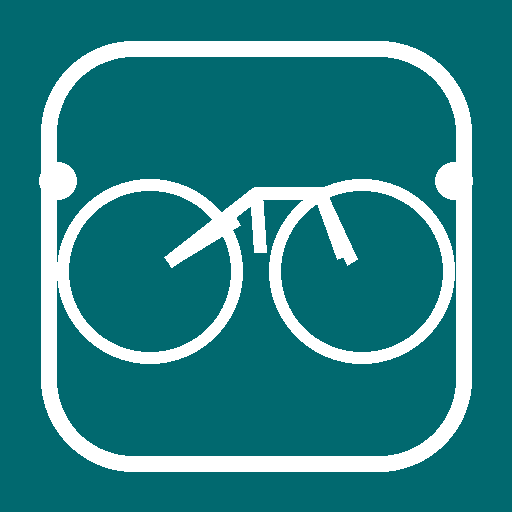
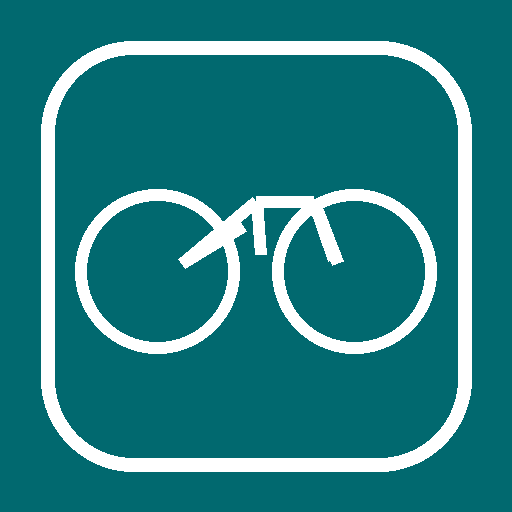
Add files via upload

diff --git a/index.html b/index.html
@@ -4,229 +4,147 @@
   <meta charset="UTF-8" />
   <meta name="viewport" content="width=device-width, initial-scale=1.0" />
   <meta name="theme-color" content="#01696f" />
-  <title>Radfreunde Ausfahrten V5</title>
-  <link href="https://api.fontshare.com/v2/css?f[]=satoshi@400,500,700&f[]=zodiak@400,700&display=swap" rel="stylesheet">
+  <meta name="apple-mobile-web-app-capable" content="yes" />
+  <meta name="apple-mobile-web-app-status-bar-style" content="default" />
+  <title>Radfreunde</title>
+  <link rel="manifest" href="manifest.webmanifest" />
+  <link rel="apple-touch-icon" href="icon-192.png" />
   <style>
-    :root, [data-theme="light"] {
-      --text-xs: clamp(0.75rem, 0.7rem + 0.25vw, 0.875rem);
-      --text-sm: clamp(0.875rem, 0.8rem + 0.35vw, 1rem);
-      --text-base: clamp(1rem, 0.95rem + 0.25vw, 1.125rem);
-      --text-lg: clamp(1.125rem, 1rem + 0.75vw, 1.5rem);
-      --text-xl: clamp(1.5rem, 1.2rem + 1.25vw, 2.25rem);
-      --space-1:.25rem; --space-2:.5rem; --space-3:.75rem; --space-4:1rem; --space-5:1.25rem; --space-6:1.5rem; --space-8:2rem; --space-10:2.5rem; --space-12:3rem;
-      --color-bg:#f7f6f2; --color-surface:#f9f8f5; --color-surface-2:#fbfbf9; --color-text:#28251d; --color-text-muted:#7a7974; --color-primary:#01696f; --color-primary-hover:#0c4e54; --color-primary-highlight:#cedcd8; --color-danger:#a13544;
-      --radius-md:.5rem; --radius-lg:.75rem; --radius-xl:1rem; --radius-full:9999px;
-      --shadow-sm:0 1px 2px rgb(0 0 0 / 0.06);
-      --font-body:'Satoshi', system-ui, sans-serif; --font-display:'Zodiak', Georgia, serif;
-    }
-    [data-theme="dark"] {
-      --color-bg:#171614; --color-surface:#1c1b19; --color-surface-2:#201f1d; --color-text:#cdccca; --color-text-muted:#979693; --color-primary:#4f98a3; --color-primary-hover:#227f8b; --color-primary-highlight:#313b3b; --color-danger:#dd6974;
-      --shadow-sm:0 1px 2px rgb(0 0 0 / 0.2);
-    }
-    *,*:before,*:after{box-sizing:border-box} html{-webkit-text-size-adjust:100%;text-size-adjust:100%} body{margin:0;min-height:100vh;background:var(--color-bg);color:var(--color-text);font-family:var(--font-body);font-size:var(--text-base);line-height:1.55}
-    button,input,select{font:inherit;color:inherit} button{cursor:pointer;border:none} input,select{width:100%;min-height:44px;background:var(--color-surface-2);color:var(--color-text);border:1px solid color-mix(in oklab,var(--color-text) 12%,transparent);border-radius:var(--radius-lg);padding:.8rem .95rem}
-    .app{max-width:1360px;margin:0 auto;padding:var(--space-4)} .topbar{display:flex;justify-content:space-between;align-items:center;gap:var(--space-4);padding:var(--space-4) 0 var(--space-6)} .brand{display:flex;align-items:center;gap:var(--space-3)} .logo{width:48px;height:48px;color:var(--color-primary)} .brand h1{margin:0;font-family:var(--font-display);font-size:var(--text-xl);line-height:1}.brand p{margin:.25rem 0 0;color:var(--color-text-muted);font-size:var(--text-sm)} .theme-toggle{width:44px;height:44px;border-radius:var(--radius-full);background:var(--color-surface);box-shadow:var(--shadow-sm);border:1px solid color-mix(in oklab,var(--color-text) 10%,transparent)}
-    .layout{display:grid;grid-template-columns:1.08fr .92fr;gap:var(--space-5)} .panel{background:var(--color-surface);border-radius:var(--radius-xl);border:1px solid color-mix(in oklab,var(--color-text) 12%,transparent);box-shadow:var(--shadow-sm)} .hero,.sidebar,.section{padding:var(--space-6)} .eyebrow{display:inline-flex;align-items:center;gap:var(--space-2);padding:.35rem .7rem;border-radius:var(--radius-full);background:var(--color-primary-highlight);color:var(--color-primary);font-size:var(--text-xs);text-transform:uppercase;letter-spacing:.08em;font-weight:700} .hero h2{margin:var(--space-4) 0 var(--space-3);font-size:var(--text-xl);font-family:var(--font-display);line-height:1.08}.helper,.hero p{margin:0;color:var(--color-text-muted);font-size:var(--text-sm)}
-    .controls{display:grid;gap:var(--space-4);margin-top:var(--space-6)} .field-row{display:grid;grid-template-columns:1.1fr .9fr auto;gap:var(--space-3);align-items:end} .field{display:grid;gap:var(--space-2)} .field label{font-size:var(--text-sm);font-weight:700} .btn{min-height:44px;padding:.8rem 1rem;border-radius:var(--radius-lg);font-size:var(--text-sm);font-weight:700} .btn-primary{background:var(--color-primary);color:#fff}.btn-primary:hover{background:var(--color-primary-hover)} .btn-secondary{background:transparent;border:1px solid color-mix(in oklab,var(--color-text) 12%,transparent)} .btn-danger{background:transparent;border:1px solid color-mix(in oklab,var(--color-danger) 40%,transparent);color:var(--color-danger)}
-    .stats-grid{display:grid;grid-template-columns:repeat(5,minmax(0,1fr));gap:var(--space-4);margin-top:var(--space-6)} .stat{padding:var(--space-4);border-radius:var(--radius-lg);background:var(--color-surface-2)} .stat strong{display:block;font-family:var(--font-display);font-size:var(--text-xl);line-height:1;margin-bottom:var(--space-2)} .stat span{color:var(--color-text-muted);font-size:var(--text-sm)}
-    .sidebar{display:grid;gap:var(--space-4)} .chip-list,.tools{display:flex;flex-wrap:wrap;gap:var(--space-2)} .chip{display:inline-flex;align-items:center;padding:.38rem .7rem;border-radius:var(--radius-full);font-size:var(--text-xs);font-weight:700;background:var(--color-primary-highlight);color:var(--color-primary)} .status{padding:.55rem .8rem;border-radius:var(--radius-full);background:var(--color-primary-highlight);color:var(--color-primary);font-size:var(--text-xs);font-weight:700}
-    .list-box{max-height:280px;overflow:auto;display:grid;gap:var(--space-2)} .member-item{display:flex;justify-content:space-between;align-items:center;gap:var(--space-3);padding:.8rem .9rem;border-radius:var(--radius-lg);background:var(--color-surface-2)}
-    .section{margin-top:var(--space-5)} .section-head{display:flex;justify-content:space-between;align-items:center;gap:var(--space-3);margin-bottom:var(--space-4)} .rank-table{width:100%;border-collapse:collapse}.rank-table th,.rank-table td{padding:.8rem .5rem;border-bottom:1px solid color-mix(in oklab,var(--color-text) 10%,transparent);text-align:left}.rank-table th{font-size:var(--text-xs);text-transform:uppercase;letter-spacing:.08em;color:var(--color-text-muted)} .bar-wrap{width:100%;min-width:120px;height:10px;border-radius:var(--radius-full);background:color-mix(in oklab,var(--color-text) 8%,transparent);overflow:hidden}.bar{height:100%;background:linear-gradient(90deg,var(--color-primary),color-mix(in oklab,var(--color-primary) 70%,white));border-radius:var(--radius-full)}
-    .rides-list{display:grid;gap:var(--space-3)} .ride-card{padding:var(--space-4);border-radius:var(--radius-xl);background:var(--color-surface-2);border:1px solid color-mix(in oklab,var(--color-text) 10%,transparent)} .ride-top{display:flex;justify-content:space-between;gap:var(--space-3);align-items:flex-start;margin-bottom:var(--space-3)} .participants{display:flex;flex-wrap:wrap;gap:var(--space-2)} .pill{display:inline-flex;align-items:center;padding:.35rem .6rem;border-radius:var(--radius-full);background:var(--color-surface);font-size:var(--text-xs)} .empty{padding:var(--space-8);text-align:center;color:var(--color-text-muted);border:1px dashed color-mix(in oklab,var(--color-text) 16%,transparent);border-radius:var(--radius-xl);background:var(--color-surface)} .grid-2{display:grid;grid-template-columns:1fr 1fr;gap:var(--space-4)} .hint{font-size:var(--text-xs);color:var(--color-text-muted)}
-    @media (max-width:1100px){.layout,.grid-2{grid-template-columns:1fr}.stats-grid{grid-template-columns:repeat(2,minmax(0,1fr))}} @media (max-width:760px){.field-row,.section-head,.ride-top,.topbar{grid-template-columns:1fr;display:grid}.stats-grid{grid-template-columns:1fr}.app{padding:var(--space-3)}.hero,.sidebar,.section{padding:var(--space-4)}}
+    :root,[data-theme="light"]{--bg:#f7f6f2;--surface:#fff;--surface2:#fbfbf9;--text:#26231b;--muted:#7d7b75;--primary:#01696f;--primary2:#d9e9e7;--danger:#a13544;--border:#dad7d0;--shadow:0 8px 24px rgba(0,0,0,.08);--r:18px;--r2:12px;font-family:system-ui,sans-serif}
+    [data-theme="dark"]{--bg:#171614;--surface:#1f1e1b;--surface2:#252420;--text:#e1dfdc;--muted:#a3a19b;--primary:#4f98a3;--primary2:#2d383a;--danger:#dd6974;--border:#3a3936;--shadow:0 8px 24px rgba(0,0,0,.28)}
+    *{box-sizing:border-box} body{margin:0;background:var(--bg);color:var(--text)} button,input{font:inherit} button{cursor:pointer;border:0}
+    .app{max-width:1100px;margin:0 auto;padding:16px} .top{display:flex;justify-content:space-between;align-items:center;gap:12px;margin-bottom:16px}
+    .brand h1{margin:0;font-size:1.8rem}.brand p{margin:4px 0 0;color:var(--muted)} .theme{width:44px;height:44px;border-radius:999px;background:var(--surface);color:var(--text);box-shadow:var(--shadow);border:1px solid var(--border)}
+    .card{background:var(--surface);border:1px solid var(--border);border-radius:var(--r);box-shadow:var(--shadow);padding:16px;margin-bottom:14px}
+    .row{display:grid;grid-template-columns:1.2fr 1fr auto;gap:12px;align-items:end} .field{display:grid;gap:8px} label{font-weight:700;font-size:.95rem}
+    input{width:100%;min-height:46px;border-radius:var(--r2);border:1px solid var(--border);background:var(--surface2);color:var(--text);padding:0 14px} input:focus{outline:2px solid var(--primary);outline-offset:2px}
+    .btn{min-height:46px;padding:0 16px;border-radius:var(--r2);font-weight:700}.primary{background:var(--primary);color:#fff}.secondary{background:transparent;color:var(--text);border:1px solid var(--border)} .danger{background:transparent;color:var(--danger);border:1px solid color-mix(in oklab,var(--danger) 35%, var(--border))}
+    .section-title{display:flex;justify-content:space-between;align-items:center;gap:12px;margin:0 0 10px} .muted{color:var(--muted);font-size:.95rem}
+    .chips{display:flex;flex-wrap:wrap;gap:10px}.chip{padding:12px 16px;border-radius:999px;background:var(--surface2);border:2px solid transparent;font-weight:700}.chip.active{background:var(--primary2);border-color:var(--primary);color:var(--primary)}
+    .stats{display:grid;grid-template-columns:repeat(4,1fr);gap:12px}.stat{padding:14px;border-radius:14px;background:var(--surface2)} .stat strong{display:block;font-size:1.8rem;line-height:1}.stat span{color:var(--muted);font-size:.92rem}
+    .list{display:grid;gap:10px}.ride{padding:14px;border-radius:16px;background:var(--surface2);border:1px solid var(--border)} .ride-top{display:flex;justify-content:space-between;gap:10px;align-items:flex-start}.ride-top h3{margin:0;font-size:1.05rem}.ride-top small{color:var(--muted)} .pills{display:flex;flex-wrap:wrap;gap:8px;margin-top:10px}.pill{padding:8px 10px;border-radius:999px;background:var(--surface);border:1px solid var(--border);font-size:.9rem}
+    .member-row{display:grid;grid-template-columns:1fr auto;gap:10px;align-items:end}.tiny{font-size:.9rem;color:var(--muted)} .empty{padding:22px;border-radius:16px;border:1px dashed var(--border);text-align:center;color:var(--muted)}
+    @media (max-width:800px){.row,.stats,.member-row{grid-template-columns:1fr}.top{align-items:flex-start;flex-direction:column}}
   </style>
-  <link rel="manifest" href="manifest.webmanifest">
-  <link rel="apple-touch-icon" href="icon-192.png">
-  <meta name="apple-mobile-web-app-capable" content="yes">
-  <meta name="apple-mobile-web-app-status-bar-style" content="default">
-
-<style>
-.readonly-mode { pointer-events: none; }
-.admin-mode .member-item, .admin-mode .chip {
-  border: 1px solid color-mix(in oklab, var(--color-text) 14%, transparent);
-  box-shadow: 0 0 0 2px transparent;
-  border-radius: var(--radius-lg);
-  outline: 2px solid transparent;
-  transition: outline 0.2s, border-color 0.2s, background 0.2s;
-}
-
-.admin-mode .member-item:hover,
-.admin-mode .chip:hover {
-  outline: 2px solid var(--color-primary);
-  border-color: var(--color-primary);
-  background: color-mix(in oklab, var(--color-primary-highlight) 80%, transparent);
-}
-
-.admin-mode .member-item.active,
-.admin-mode .chip.active {
-  outline: 2px solid var(--color-primary);
-  border-color: var(--color-primary);
-  background: color-mix(in oklab, var(--color-primary-highlight) 80%, transparent);
-  box-shadow: 0 2px 6px rgba(0,0,0,0.1);
-}
-</style>
 </head>
 <body>
   <div class="app">
-    <header class="topbar">
-      <div class="brand">
-        <svg class="logo" viewBox="0 0 64 64" fill="none" aria-label="Radfreunde Logo"><circle cx="20" cy="44" r="8" stroke="currentColor" stroke-width="4"></circle><circle cx="46" cy="44" r="8" stroke="currentColor" stroke-width="4"></circle><path d="M20 44l8-16h10l8 16M28 28l-6-8M38 28l6-6" stroke="currentColor" stroke-width="4" stroke-linecap="round" stroke-linejoin="round"></path></svg>
-        <div><h1>Radfreunde V5</h1><p>Mit Suche und Medaillen</p></div>
-      </div>
-      <button class="theme-toggle" type="button" aria-label="Farbschema wechseln" data-theme-toggle>◐</button>
-    </header>
+    <div class="top">
+      <div class="brand"><h1>Radfreunde</h1><p>Datum wählen, Teilnehmer anklicken, Tour speichern</p></div>
+      <button class="theme" id="themeBtn" aria-label="Farbschema wechseln">◐</button>
+    </div>
 
-    <main>
-      <section class="layout">
-        <article class="panel hero">
-          <span class="eyebrow">Version 4</span>
-          <h2>Monate, Jahre und Suche direkt auswerten.</h2>
-          <p>Du kannst jetzt die Rangliste für alle Daten, für ein bestimmtes Jahr oder für einen bestimmten Monat anzeigen lassen.</p>
-          <div class="controls">
-            <div class="field-row">
-              <div class="field"><label for="memberName">Neuen Teilnehmer hinzufügen</label><input id="memberName" type="text" placeholder="Name eingeben" /></div>
-              <div class="field"><label for="quickPreset">Beispielnamen laden</label><select id="quickPreset"><option value="">Bitte wählen</option><option value="demo">30 Beispielnamen einfügen</option></select></div>
-              <button class="btn btn-primary" id="addMemberBtn" type="button">Teilnehmer speichern</button>
-            </div>
-            <div class="field-row">
-              
-              <div class="field"><label for="rideDate">Datum</label><input id="rideDate" type="date" /></div>
-              <button class="btn btn-secondary" id="todayBtn" type="button">Heute setzen</button>
-            </div>
-          </div>
-          <div class="stats-grid">
-            <div class="stat"><strong id="totalMembers">0</strong><span>Teilnehmer</span></div>
-            <div class="stat"><strong id="totalRides">0</strong><span>Ausfahrten gesamt</span></div>
-            <div class="stat"><strong id="topMember">-</strong><span>Spitzenreiter im Filter</span></div>
-            <div class="stat"><strong id="avgParticipants">0</strong><span>Ø Teilnehmer im Filter</span></div>
-            <div class="stat"><strong id="lastRideDate">-</strong><span>Letzte Ausfahrt</span></div>
-          </div>
-        </article>
-
-        <aside class="panel sidebar">
-          <div><h3>Teilnehmer wählen</h3><p class="helper">Ein Klick markiert den Namen für die aktuelle Ausfahrt.</p></div>
-          <div class="chip-list" id="memberChips"></div>
-          <div class="tools"><button class="btn btn-primary" id="saveRideBtn" type="button">Ausfahrt speichern</button><button class="btn btn-secondary" id="selectAllBtn" type="button">Alle markieren</button><button class="btn btn-secondary" id="clearSelectionBtn" type="button">Auswahl löschen</button></div>
-          <div class="tools"><button class="btn btn-secondary" id="exportJsonBtn" type="button">JSON sichern</button><label class="btn btn-secondary" style="position:relative;overflow:hidden;display:inline-flex;align-items:center;">JSON einlesen<input id="importJsonFile" type="file" accept=".json,application/json" style="position:absolute;inset:0;opacity:0;cursor:pointer"></label></div>
-          <div class="status" id="storageStatus">Speicherstatus wird geladen …</div>
-          <div><h3>Teilnehmerliste</h3><div class="list-box" id="memberList"></div></div>
-        </aside>
-      </section>
-
-      <section class="panel section">
-        <div class="section-head">
-          <div><h3>Rangliste</h3><p class="helper">Gesamt, Jahr oder Monat auswählbar.</p></div>
-          <div class="tools">
-            <select id="periodFilter"><option value="all">Gesamt</option><option value="year">Jahr</option><option value="month">Monat</option></select>
-            <select id="yearFilter"></select>
-            <select id="monthFilter"></select>
-            <button class="btn btn-secondary" id="top10Btn" type="button">Nur Top 10</button>
-            <button class="btn btn-danger" id="resetAllBtn" type="button">Alles zurücksetzen</button>
-          </div>
+    <div class="card">
+      <div class="row">
+        <div class="field">
+          <label for="rideDate">Datum der Ausfahrt</label>
+          <input id="rideDate" type="date" />
         </div>
-        <div id="rankingWrap"></div>
-      </section>
+        <div>
+          <div class="section-title"><strong>Teilnehmer auswählen</strong><span class="muted" id="selCount">0 ausgewählt</span></div>
+          <div class="chips" id="memberChips"></div>
+        </div>
+        <button class="btn primary" id="saveRideBtn">Tour abschließen</button>
+      </div>
+      <p class="tiny">Die ausgewählten Teilnehmer werden unten gespeichert. Falsche Einträge kannst du später noch bearbeiten.</p>
+    </div>
 
-      <section class="panel section">
-        <div class="section-head"><div><h3>Zeitraum-Statistik</h3><p class="helper">Jahre und Monate im Überblick.</p></div></div>
-        <div id="periodStatsWrap"></div>
-      </section>
+    <div class="stats">
+      <div class="stat"><strong id="totalMembers">0</strong><span>Teilnehmer</span></div>
+      <div class="stat"><strong id="totalRides">0</strong><span>Touren</span></div>
+      <div class="stat"><strong id="topMember">-</strong><span>Spitzenreiter</span></div>
+      <div class="stat"><strong id="lastRide">-</strong><span>Letzte Tour</span></div>
+    </div>
 
-      <section class="panel section">
-        <div class="section-head"><div><h3>Ausfahrten</h3><p class="helper">Alle gespeicherten Runden mit Teilnehmern.</p></div></div>
-        <div id="ridesWrap"></div>
-      </section>
-    </main>
+    <div class="card">
+      <div class="section-title"><strong>Gespeicherte Touren</strong><span class="muted">Bearbeiten ist jederzeit möglich</span></div>
+      <div class="list" id="ridesWrap"></div>
+    </div>
+
+    <div class="card">
+      <div class="section-title"><strong>Teilnehmer verwalten</strong><span class="muted">Ändert sich selten</span></div>
+      <div class="member-row">
+        <div class="field">
+          <label for="memberName">Teilnehmer hinzufügen</label>
+          <input id="memberName" type="text" placeholder="Name eingeben" />
+        </div>
+        <button class="btn secondary" id="addMemberBtn">Hinzufügen</button>
+      </div>
+      <div style="height:12px"></div>
+      <div class="member-row">
+        <div class="field">
+          <label for="deleteMember">Teilnehmer löschen</label>
+          <input id="deleteMember" type="text" placeholder="Name eingeben" />
+        </div>
+        <button class="btn danger" id="deleteMemberBtn">Löschen</button>
+      </div>
+    </div>
   </div>
 
   <script>
-    const DB_NAME = 'radfreunde-ausfahrten-db';
-    const STORE_NAME = 'appState';
-    const STATE_KEY = 'main';
-    const MONTH_NAMES = ['Januar','Februar','März','April','Mai','Juni','Juli','August','September','Oktober','November','Dezember'];
-    const presetNames = ['Andreas','Bernd','Claus','Dieter','Egon','Frank','Gerd','Harald','Helmut','Jürgen','Karl','Klaus','Manfred','Martin','Norbert','Peter','Ralf','Reiner','Stefan','Thomas','Uli','Volker','Walter','Werner','Wolfgang','Hans','Erich','Roland','Achim','Jochen'];
-    const state = { members: [], rides: [], selectedMembers: new Set(), top10Only: false, period: 'all', filterYear: '', filterMonth: '', search: '' };
+    const DB_NAME='radfreunde-db';
+    const STORE='state';
+    const KEY='main';
+    const state={members:[], rides:[], selected:new Set()};
     let db;
+    const $=id=>document.getElementById(id);
+    const themeBtn=$('themeBtn');
+    const rideDate=$('rideDate');
+    const memberChips=$('memberChips');
+    const selCount=$('selCount');
+    const ridesWrap=$('ridesWrap');
+    const totalMembers=$('totalMembers');
+    const totalRides=$('totalRides');
+    const topMember=$('topMember');
+    const lastRide=$('lastRide');
+    const memberName=$('memberName');
+    const deleteMember=$('deleteMember');
+    const addMemberBtn=$('addMemberBtn');
+    const deleteMemberBtn=$('deleteMemberBtn');
+    const saveRideBtn=$('saveRideBtn');
 
-    const $ = id => document.getElementById(id);
-    const memberName = $('memberName'), quickPreset = $('quickPreset'), addMemberBtn = $('addMemberBtn'), rideTitle = $('rideTitle'), rideDate = $('rideDate'), todayBtn = $('todayBtn');
-    const memberChips = $('memberChips'), memberList = $('memberList'), saveRideBtn = $('saveRideBtn'), selectAllBtn = $('selectAllBtn'), clearSelectionBtn = $('clearSelectionBtn');
-    const exportJsonBtn = $('exportJsonBtn'), importJsonFile = $('importJsonFile'), storageStatus = $('storageStatus');
-    const periodFilter = $('periodFilter'), yearFilter = $('yearFilter'), monthFilter = $('monthFilter'), top10Btn = $('top10Btn'), resetAllBtn = $('resetAllBtn'), searchMember = $('searchMember');
-    const rankingWrap = $('rankingWrap'), periodStatsWrap = $('periodStatsWrap'), ridesWrap = $('ridesWrap');
-    const totalMembers = $('totalMembers'), totalRides = $('totalRides'), topMember = $('topMember'), avgParticipants = $('avgParticipants'), lastRideDate = $('lastRideDate');
+    function esc(s){return String(s).replace(/[&<>\"']/g,m=>({'&':'&amp;','<':'&lt;','>':'&gt;','\"':'&quot;',"'":'&#39;'}[m]))}
+    function fmt(d){return d?new Date(d+'T12:00:00').toLocaleDateString('de-DE',{day:'2-digit',month:'2-digit',year:'numeric'}):'-'}
+    function loadTheme(){const t=localStorage.getItem('theme')||('matchMedia' in window && matchMedia('(prefers-color-scheme: dark)').matches?'dark':'light'); document.documentElement.setAttribute('data-theme',t)}
+    function saveTheme(t){localStorage.setItem('theme',t); document.documentElement.setAttribute('data-theme',t)}
+    themeBtn.onclick=()=>saveTheme(document.documentElement.getAttribute('data-theme')==='dark'?'light':'dark')
 
-    const root = document.documentElement; const themeToggle = document.querySelector('[data-theme-toggle]'); let theme = matchMedia('(prefers-color-scheme: dark)').matches ? 'dark':'light'; root.setAttribute('data-theme', theme); themeToggle.onclick=()=>{theme=theme==='dark'?'light':'dark';root.setAttribute('data-theme',theme)};
-    if ('serviceWorker' in navigator) { navigator.serviceWorker.register('sw.js'); }
-    const escapeHtml = text => text.replace(/[&<>"']/g,s=>({'&':'&amp;','<':'&lt;','>':'&gt;','"':'&quot;',"'":'&#39;'}[s]));
-    const formatDate = d => d ? new Date(d+'T12:00:00').toLocaleDateString('de-DE',{day:'2-digit',month:'2-digit',year:'numeric'}) : 'ohne Datum';
-    const rideParts = ride => ({ year:(ride.date||'').slice(0,4), month:(ride.date||'').slice(0,7) });
+    function openDb(){return new Promise((res,rej)=>{const r=indexedDB.open(DB_NAME,1); r.onupgradeneeded=e=>e.target.result.createObjectStore(STORE); r.onsuccess=()=>{db=r.result;res()}; r.onerror=()=>rej(r.error)})}
+    function persist(){const tx=db.transaction(STORE,'readwrite'); tx.objectStore(STORE).put({members:state.members,rides:state.rides},KEY)}
+    function hydrate(){return new Promise((res,rej)=>{const tx=db.transaction(STORE,'readonly'); const r=tx.objectStore(STORE).get(KEY); r.onsuccess=()=>{const d=r.result||{}; state.members=d.members||[]; state.rides=d.rides||[]; res()}; r.onerror=()=>rej(r.error)})}
 
-    function openDb(){return new Promise((resolve,reject)=>{const req=indexedDB.open(DB_NAME,2); req.onupgradeneeded=e=>{const database=e.target.result; if(!database.objectStoreNames.contains(STORE_NAME)) database.createObjectStore(STORE_NAME)}; req.onsuccess=()=>{db=req.result; resolve()}; req.onerror=()=>reject(req.error)})}
-    function saveDb(){return new Promise((resolve,reject)=>{const tx=db.transaction(STORE_NAME,'readwrite'); tx.objectStore(STORE_NAME).put({members:state.members, rides:state.rides, top10Only:state.top10Only, period:state.period, filterYear:state.filterYear, filterMonth:state.filterMonth, search:state.search}, STATE_KEY); tx.oncomplete=()=>{storageStatus.textContent='Dauerhaft im Browser gespeichert'; resolve()}; tx.onerror=()=>reject(tx.error)})}
-    function loadDb(){return new Promise((resolve,reject)=>{const tx=db.transaction(STORE_NAME,'readonly'); const req=tx.objectStore(STORE_NAME).get(STATE_KEY); req.onsuccess=()=>{const data=req.result; if(data){state.members=data.members||[]; state.rides=data.rides||[]; state.top10Only=!!data.top10Only; state.period=data.period||'all'; state.filterYear=data.filterYear||''; state.filterMonth=data.filterMonth||''; state.search=data.search||'';} storageStatus.textContent='Dauerhaft im Browser gespeichert'; resolve()}; req.onerror=()=>reject(req.error)})}
-    function downloadJson(){const blob=new Blob([JSON.stringify({members:state.members,rides:state.rides,exportedAt:new Date().toISOString()},null,2)],{type:'application/json'}); const url=URL.createObjectURL(blob); const a=document.createElement('a'); a.href=url; a.download='radfreunde-sicherung.json'; a.click(); URL.revokeObjectURL(url)}
+    function addMember(name){const n=name.trim(); if(!n||state.members.some(x=>x.toLowerCase()===n.toLowerCase())) return; state.members.push(n); state.members.sort((a,b)=>a.localeCompare(b,'de')); persist(); render()}
+    function removeMember(name){state.members=state.members.filter(m=>m!==name); state.rides=state.rides.map(r=>({...r,participants:r.participants.filter(p=>p!==name)})); state.selected.delete(name); persist(); render()}
+    function toggleMember(name){state.selected.has(name)?state.selected.delete(name):state.selected.add(name); renderMembers()}
+    function saveRide(){const participants=[...state.selected]; if(!rideDate.value||!participants.length){alert('Bitte Datum und mindestens einen Teilnehmer wählen.'); return} state.rides.unshift({date:rideDate.value, participants, id:Date.now()}); state.selected.clear(); persist(); render()}
+    function editRide(i){const r=state.rides[i]; const d=prompt('Datum ändern (YYYY-MM-DD):', r.date); if(!d) return; const p=prompt('Teilnehmer mit | getrennt eingeben:', r.participants.join('|')); if(p===null) return; r.date=d; r.participants=p.split('|').map(x=>x.trim()).filter(Boolean); r.participants.forEach(x=>{if(!state.members.includes(x)) state.members.push(x)}); state.members.sort((a,b)=>a.localeCompare(b,'de')); persist(); render()}
 
-    function addMember(name){const clean=name.trim(); if(!clean) return; if(state.members.some(m=>m.toLowerCase()===clean.toLowerCase())) return; state.members.push(clean); state.members.sort((a,b)=>a.localeCompare(b,'de')); saveDb(); render();}
-    function getFilteredRides(){return state.rides.filter(ride=>{const p=rideParts(ride); if(state.period==='year' && state.filterYear && p.year!==state.filterYear) return false; if(state.period==='month' && state.filterMonth && p.month!==state.filterMonth) return false; return true;})}
-    function getRanking(){const rides=getFilteredRides(); return state.members.filter(name=>!state.search || name.toLowerCase().includes(state.search.toLowerCase())).map(name=>{const count=rides.filter(r=>r.participants.includes(name)).length; const percent=rides.length?Math.round(count/rides.length*100):0; return {name,count,percent}}).sort((a,b)=>b.count-a.count||a.name.localeCompare(b.name,'de'))}
-    function getYears(){return [...new Set(state.rides.map(r=>(r.date||'').slice(0,4)).filter(Boolean))].sort().reverse()}
-    function getMonths(){return [...new Set(state.rides.map(r=>(r.date||'').slice(0,7)).filter(Boolean))].sort().reverse()}
-
-    function fillFilters(){
-      const years=getYears(), months=getMonths();
-      yearFilter.innerHTML=['<option value="">Alle Jahre</option>',...years.map(y=>`<option value="${y}">${y}</option>`)].join('');
-      monthFilter.innerHTML=['<option value="">Alle Monate</option>',...months.map(m=>{const [y,mo]=m.split('-'); return `<option value="${m}">${MONTH_NAMES[Number(mo)-1]} ${y}</option>`})].join('');
-      periodFilter.value=state.period; yearFilter.value=state.filterYear; monthFilter.value=state.filterMonth;
-      yearFilter.style.display=state.period==='year'?'inline-flex':'none'; monthFilter.style.display=state.period==='month'?'inline-flex':'none';
+    function renderMembers(){
+      selCount.textContent=`${state.selected.size} ausgewählt`;
+      memberChips.innerHTML = state.members.length ? state.members.map(n=>`<button class="chip ${state.selected.has(n)?'active':''}" data-name="${esc(n)}">${esc(n)}</button>`).join('') : '<div class="empty">Noch keine Teilnehmer angelegt.</div>';
     }
+    function renderStats(){
+      totalMembers.textContent=state.members.length;
+      totalRides.textContent=state.rides.length;
+      const counts=state.members.map(n=>[n,state.rides.filter(r=>r.participants.includes(n)).length]).sort((a,b)=>b[1]-a[1]||a[0].localeCompare(b[0],'de'));
+      topMember.textContent=counts[0]&&counts[0][1]>0?`${counts[0][0]} (${counts[0][1]})`:'-';
+      lastRide.textContent=state.rides[0]?fmt(state.rides[0].date):'-';
+    }
+    function renderRides(){
+      if(!state.rides.length){ridesWrap.innerHTML='<div class="empty">Noch keine Tour gespeichert.</div>'; return}
+      ridesWrap.innerHTML=state.rides.map((r,i)=>`<div class="ride"><div class="ride-top"><div><h3>${fmt(r.date)}</h3><small>${r.participants.length} Teilnehmer</small></div><button class="btn secondary" data-edit="${i}">Bearbeiten</button></div><div class="pills">${r.participants.map(p=>`<span class="pill">${esc(p)}</span>`).join('')}</div></div>`).join('')
+    }
+    function render(){renderMembers(); renderStats(); renderRides()}
 
-    function renderMemberChips(){memberChips.innerHTML = state.members.length ? state.members.map(name=>{const active=state.selectedMembers.has(name); return `<button type="button" class="chip" data-chip="${escapeHtml(name)}" style="border:${active?'1px solid var(--color-primary)':'1px solid transparent'}">${escapeHtml(name)}</button>`}).join('') : '<div class="empty" style="padding:var(--space-4);width:100%;">Noch keine Teilnehmer gespeichert.</div>'}
-    function renderMemberList(){memberList.innerHTML = state.members.length ? state.members.map((name,index)=>`<div class="member-item"><div><strong>${index+1}. ${escapeHtml(name)}</strong><br><span class="hint">${state.rides.filter(r=>r.participants.includes(name)).length} Ausfahrten gesamt</span></div><button class="btn btn-secondary" style="min-height:36px;padding:.45rem .7rem;" data-remove-member="${escapeHtml(name)}">Entfernen</button></div>`).join('') : '<div class="empty" style="padding:var(--space-4);">Füge oben den ersten Namen hinzu.</div>'}
-    function renderRanking(){const ranking=getRanking(); const view=state.top10Only?ranking.slice(0,10):ranking; const rides=getFilteredRides(); const max=Math.max(...ranking.map(x=>x.count),1); totalMembers.textContent=state.members.length; totalRides.textContent=state.rides.length; topMember.textContent=ranking[0]&&ranking[0].count>0?`${ranking[0].name} (${ranking[0].count})`:'-'; avgParticipants.textContent=rides.length?(rides.reduce((s,r)=>s+r.participants.length,0)/rides.length).toFixed(1).replace('.',','):'0'; lastRideDate.textContent=state.rides[0]?.date?formatDate(state.rides[0].date):'-'; top10Btn.textContent=state.top10Only?'Alle anzeigen':'Nur Top 10'; const medals=['🥇','🥈','🥉']; rankingWrap.innerHTML = ranking.length ? `<table class="rank-table"><thead><tr><th>Platz</th><th>Name</th><th>Ausfahrten</th><th>Anteil</th><th>Auszeichnung</th><th>Verlauf</th></tr></thead><tbody>${view.map((item,index)=>{const place=state.top10Only?index:ranking.indexOf(item); const medal=place<3&&item.count>0?medals[place]:''; return `<tr><td>${place+1}</td><td><strong>${escapeHtml(item.name)}</strong></td><td>${item.count}</td><td>${item.percent}%</td><td style="font-size:1.2rem">${medal}</td><td><div class="bar-wrap"><div class="bar" style="width:${(item.count/max)*100}%"></div></div></td></tr>`}).join('')}</tbody></table>` : '<div class="empty">Noch keine Teilnehmer vorhanden.</div>'}
-    function renderPeriodStats(){const years={}; const months={}; state.rides.forEach(r=>{const p=rideParts(r); if(p.year) years[p.year]=(years[p.year]||0)+1; if(p.month) months[p.month]=(months[p.month]||0)+1}); const yearRows=Object.entries(years).sort((a,b)=>b[0].localeCompare(a[0])).map(([year,count])=>`<tr><td>${year}</td><td>${count}</td></tr>`).join('') || '<tr><td colspan="2">Noch keine Daten</td></tr>'; const monthRows=Object.entries(months).sort((a,b)=>b[0].localeCompare(a[0])).slice(0,12).map(([m,count])=>{const [y,mo]=m.split('-'); return `<tr><td>${MONTH_NAMES[Number(mo)-1]} ${y}</td><td>${count}</td></tr>`}).join('') || '<tr><td colspan="2">Noch keine Daten</td></tr>'; periodStatsWrap.innerHTML = `<div class="grid-2"><div class="ride-card"><h4 style="margin:0 0 var(--space-3);">Ausfahrten pro Jahr</h4><table class="rank-table"><thead><tr><th>Jahr</th><th>Ausfahrten</th></tr></thead><tbody>${yearRows}</tbody></table></div><div class="ride-card"><h4 style="margin:0 0 var(--space-3);">Letzte 12 Monate</h4><table class="rank-table"><thead><tr><th>Monat</th><th>Ausfahrten</th></tr></thead><tbody>${monthRows}</tbody></table></div></div>`}
-    function renderRides(){ridesWrap.innerHTML = state.rides.length ? `<div class="rides-list">${state.rides.map((ride,index)=>`<article class="ride-card"><div class="ride-top"><div><strong>${escapeHtml(ride.title||'Ausfahrt')}</strong><div class="helper">${formatDate(ride.date)} · ${ride.participants.length} Teilnehmer</div></div><button class="btn btn-secondary" type="button" data-delete-ride="${index}">Löschen</button></div><div class="participants">${ride.participants.map(name=>`<span class="pill">${escapeHtml(name)}</span>`).join('')}</div></article>`).join('')}</div>` : '<div class="empty">Noch keine Ausfahrt gespeichert.</div>'}
-    function render(){fillFilters(); renderMemberChips(); renderMemberList(); renderRanking(); renderPeriodStats(); renderRides()}
-
+    memberChips.addEventListener('click',e=>{const b=e.target.closest('[data-name]'); if(!b) return; toggleMember(b.dataset.name)});
     addMemberBtn.onclick=()=>{addMember(memberName.value); memberName.value=''; memberName.focus()};
     memberName.addEventListener('keydown',e=>{if(e.key==='Enter'){e.preventDefault(); addMemberBtn.click()}});
-    quickPreset.onchange=()=>{if(quickPreset.value==='demo'){presetNames.forEach(addMember); quickPreset.value=''}};
-    todayBtn.onclick=()=>rideDate.value=new Date().toISOString().slice(0,10);
-    memberChips.onclick=e=>{const chip=e.target.closest('[data-chip]'); if(!chip) return; const name=chip.dataset.chip; state.selectedMembers.has(name)?state.selectedMembers.delete(name):state.selectedMembers.add(name); renderMemberChips()};
-    memberList.onclick=e=>{const b=e.target.closest('[data-remove-member]'); if(!b) return; const name=b.dataset.removeMember; state.members=state.members.filter(m=>m!==name); state.selectedMembers.delete(name); state.rides=state.rides.map(r=>({...r,participants:r.participants.filter(p=>p!==name)})); saveDb(); render()};
-    selectAllBtn.onclick=()=>{state.selectedMembers=new Set(state.members); renderMemberChips()};
-    clearSelectionBtn.onclick=()=>{state.selectedMembers.clear(); renderMemberChips()};
-    saveRideBtn.onclick=()=>{const participants=[...state.selectedMembers].sort((a,b)=>a.localeCompare(b,'de')); if(!participants.length){alert('Bitte mindestens einen Teilnehmer auswählen.'); return} state.rides.unshift({title:rideTitle.value.trim()||'Ausfahrt',date:rideDate.value,participants}); state.selectedMembers.clear(); rideTitle.value=''; saveDb(); render()};
-    ridesWrap.onclick=e=>{const b=e.target.closest('[data-delete-ride]'); if(!b) return; state.rides.splice(Number(b.dataset.deleteRide),1); saveDb(); render()};
-    top10Btn.onclick=()=>{state.top10Only=!state.top10Only; saveDb(); render()};
-    periodFilter.onchange=()=>{state.period=periodFilter.value; saveDb(); render()};
-    yearFilter.onchange=()=>{state.filterYear=yearFilter.value; if(state.filterYear) state.period='year'; saveDb(); render()};
-    monthFilter.onchange=()=>{state.filterMonth=monthFilter.value; if(state.filterMonth) state.period='month'; saveDb(); render()};
-    searchMember.oninput=()=>{state.search=searchMember.value; saveDb(); render()};
-    resetAllBtn.onclick=()=>{if(!confirm('Wirklich alle Teilnehmer und Ausfahrten löschen?')) return; state.members=[]; state.rides=[]; state.selectedMembers.clear(); state.top10Only=false; state.period='all'; state.filterYear=''; state.filterMonth=''; saveDb(); render()};
-    exportJsonBtn.onclick=downloadJson;
-    importJsonFile.onchange=e=>{const file=e.target.files[0]; if(!file) return; const reader=new FileReader(); reader.onload=()=>{try{const data=JSON.parse(reader.result); state.members=Array.isArray(data.members)?data.members:[]; state.rides=Array.isArray(data.rides)?data.rides:[]; state.selectedMembers.clear(); saveDb(); render(); alert('JSON-Sicherung wurde eingelesen.');}catch{alert('Die JSON-Datei konnte nicht gelesen werden.')}}; reader.readAsText(file,'utf-8'); e.target.value=''};
-
+    deleteMemberBtn.onclick=()=>{removeMember(deleteMember.value.trim()); deleteMember.value=''; deleteMember.focus()};
+    saveRideBtn.onclick=saveRide;
+    ridesWrap.addEventListener('click',e=>{const b=e.target.closest('[data-edit]'); if(!b) return; editRide(Number(b.dataset.edit))});
     rideDate.value=new Date().toISOString().slice(0,10);
-    if(!('indexedDB' in window)){storageStatus.textContent='IndexedDB wird in diesem Browser nicht unterstützt'; render()} else {openDb().then(loadDb).then(()=>{searchMember.value=state.search; render()}).catch(()=>{storageStatus.textContent='Dauerhafte Speicherung nicht verfügbar'; render()})}
+    loadTheme();
+    if('indexedDB' in window){openDb().then(hydrate).then(render)} else render();
   </script>
-
-<script>
-(function() {
-  const params = new URLSearchParams(window.location.search);
-  const isAdmin = params.get('admin') === 'radfreunde2026';
-  const controls = document.querySelectorAll('.controls input, .controls select, .controls button, .sidebar .btn, .member-item button, .ride-card button');
-  if (!isAdmin) {
-    controls.forEach(el => { el.disabled = true; el.style.display = 'none'; });
-    const banner = document.createElement('div');
-    banner.textContent = 'Lesemodus — nur Anzeige';
-    banner.style.cssText = 'position:sticky;top:0;z-index:20;padding:12px 16px;background:#01696f;color:#fff;font-weight:700;text-align:center';
-    document.body.prepend(banner);
-    document.body.classList.add('readonly-mode');
-  } else {
-    document.body.classList.add('admin-mode');
-  }
-})();
-</script>
 </body>
 </html>

diff --git a/sw.js b/sw.js
@@ -1,7 +1,3 @@
-const CACHE = 'radfreunde-pwa-v1';
-self.addEventListener('install', event => {
-  event.waitUntil(caches.open(CACHE).then(cache => cache.addAll(['./'])));
-});
-self.addEventListener('fetch', event => {
-  event.respondWith(caches.match(event.request).then(r => r || fetch(event.request)));
-});
+const CACHE='radfreunde-v1';
+self.addEventListener('install',e=>e.waitUntil(caches.open(CACHE).then(c=>c.addAll(['./']))));
+self.addEventListener('fetch',e=>e.respondWith(caches.match(e.request).then(r=>r||fetch(e.request))));